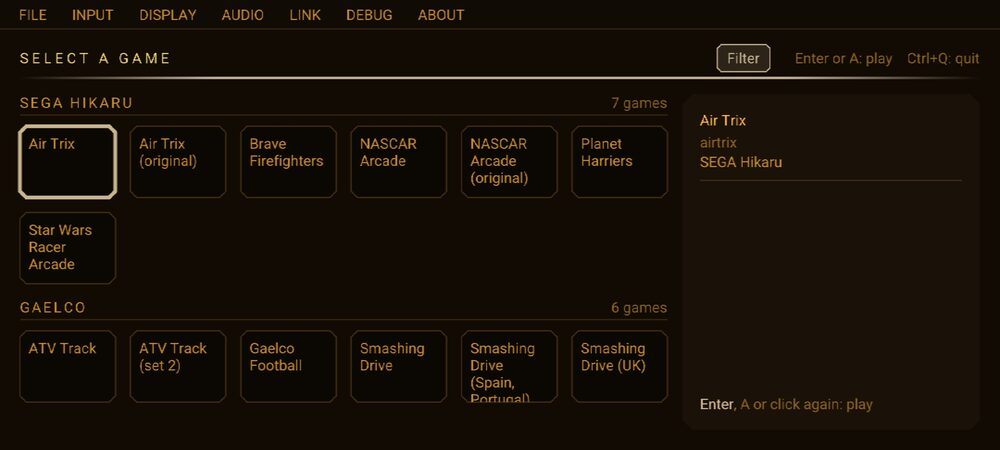
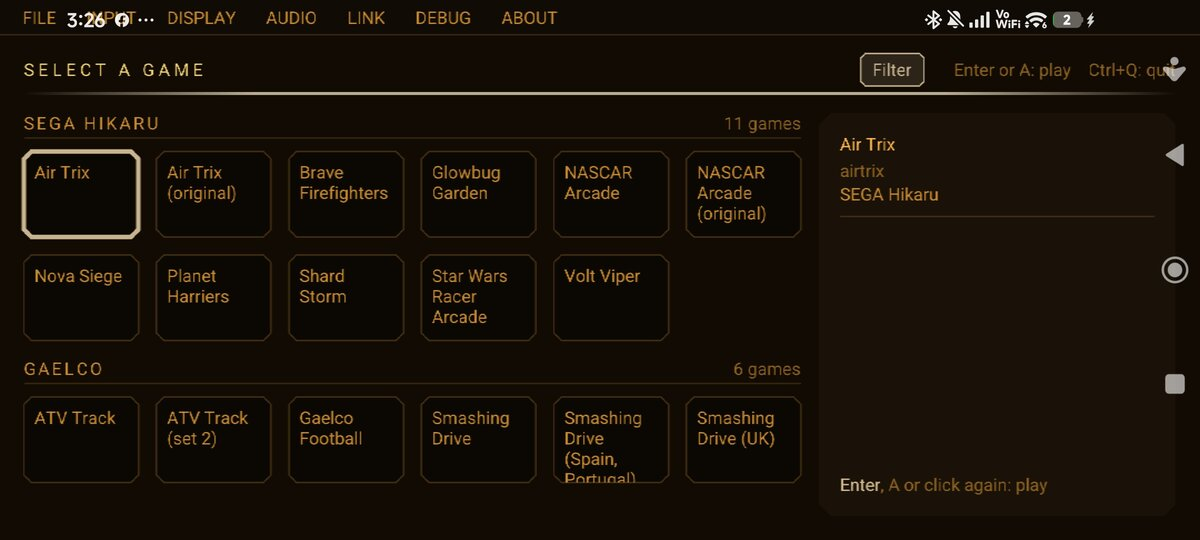
README: the four homebrew games, the import tried on the phone (#43)
The state table says the import and its check were tried on the phone,
and that a homebrew game installs by its zip alone (GLOWBUG GARDEN). The
homebrew section lists the four games in a table, with GLOWBUG GARDEN on
the phone; the list of the games is the phone's with the four of them.

Claude-Session: https://claude.ai/code/session_01Y1Xuj68g9nEy1QUJYZxdtJ

diff --git a/README.md b/README.md
@@ -17,7 +17,7 @@ https://github.com/Laurent-67370/odin-android/releases/download/odin-apk/odin.ap
   <img src="docs/games-list.jpg" alt="La liste des jeux d'Odin sur le téléphone" width="520">
 </p>
 
-<p align="center"><em>Star Wars Racer Arcade en course (60 images/s) ; Air Trix en portrait ; la liste des jeux.
+<p align="center"><em>Star Wars Racer Arcade en course (60 images/s) ; Air Trix en portrait ; la liste des jeux, avec les quatre jeux maison.
 Captures d'un Snapdragon 8 Gen 2.</em></p>
 
 ## État
@@ -35,11 +35,12 @@ Captures d'un Snapdragon 8 Gen 2.</em></p>
 | Quitter puis revenir dans l'app | le jeu reprend (pas d'écran noir) |
 | Records et réglages des bornes | gardés, aussi quand Android ferme l'app en arrière-plan |
 | Mises à jour | par-dessus l'ancienne version (APK signé d'une clé fixe) |
-| Ajouter des jeux | MENU → File → Add games… : le sélecteur du téléphone, chaque archive copiée dans `Odin/roms` sous le bon nom (reconnue à son contenu) |
-| **NOVA SIEGE** (homebrew du dépôt) | jeu de tir original pour la Hikaru : son, musique, record gardé, vagues variées, vaisseau-mère ; [odinhb.zip](https://github.com/Laurent-67370/odin-android/releases/download/odin-apk/odinhb.zip) dans `Odin/roms` |
-| **SHARD STORM** (homebrew du dépôt) | casse-briques original : 12 niveaux, capsules, musique, record gardé ; [odinshrd.zip](https://github.com/Laurent-67370/odin-android/releases/download/odin-apk/odinshrd.zip) dans `Odin/roms` |
-| **GLOWBUG GARDEN** (homebrew du dépôt) | poursuite dans un labyrinthe, originale : une luciole, trois scarabées d'ombre, quatre jardins, musique, record gardé ; [odinglow.zip](https://github.com/Laurent-67370/odin-android/releases/download/odin-apk/odinglow.zip), à importer seul (sans nouvel APK) |
-| **VOLT VIPER** (homebrew du dépôt) | serpent original : 8 niveaux de murs, étincelles, musique, record gardé ; [odinvipr.zip](https://github.com/Laurent-67370/odin-android/releases/download/odin-apk/odinvipr.zip) dans `Odin/roms` |
+| Ajouter des jeux | MENU → File → Add games… : le sélecteur du téléphone, plusieurs fichiers à la fois ; chaque archive copiée dans `Odin/roms` sous le bon nom (reconnue à son contenu), puis vérifiée : « ready to play », BIOS manquant, ancienne version. Essayé sur le téléphone |
+| Jeux maison sans nouvel APK | leur zip porte leur description : l'import seul les ajoute à la liste (essayé sur le téléphone avec GLOWBUG GARDEN) |
+| **NOVA SIEGE** (homebrew du dépôt) | jeu de tir original : son, musique, record gardé, vagues variées, vaisseau-mère ; [odinhb.zip](https://github.com/Laurent-67370/odin-android/releases/download/odin-apk/odinhb.zip) |
+| **SHARD STORM** (homebrew du dépôt) | casse-briques original : 12 niveaux, capsules, raquette au doigt, musique, record gardé ; [odinshrd.zip](https://github.com/Laurent-67370/odin-android/releases/download/odin-apk/odinshrd.zip) |
+| **VOLT VIPER** (homebrew du dépôt) | serpent original : 8 niveaux de murs, étincelles, musique, record gardé ; [odinvipr.zip](https://github.com/Laurent-67370/odin-android/releases/download/odin-apk/odinvipr.zip) |
+| **GLOWBUG GARDEN** (homebrew du dépôt) | poursuite dans un labyrinthe, originale : une luciole, trois scarabées d'ombre, quatre jardins, musique, record gardé ; [odinglow.zip](https://github.com/Laurent-67370/odin-android/releases/download/odin-apk/odinglow.zip) |
 
 Connu, venant d'Odin lui-même : Air Trix peut planter à l'écran des meilleurs
 scores ([Tovarichtch/Odin#52](https://github.com/Tovarichtch/Odin/issues/52)).
@@ -227,34 +228,35 @@ par seconde** en course : la carte graphique travaille environ 9 ms sur les
 Le dossier [`homebrew/`](homebrew/) contient quatre jeux faits maison pour la
 borne SEGA Hikaru : ils démarrent par le BIOS SEGA comme de vrais jeux,
 affichent par la couche 2D, lisent les commandes par le JVS et jouent leur son
-sur l'AICA. **SHARD STORM** est un casse-briques original : douze niveaux de
-cristal, briques d'argent, d'or et bombes, six capsules (raquette large,
-multi-balles, laser, ralenti, colle, vie), musique et record gardé ;
-[odinshrd.zip](https://github.com/Laurent-67370/odin-android/releases/download/odin-apk/odinshrd.zip)
-dans `Odin/roms`.
+sur l'AICA. Tous originaux, avec leur musique composée et leur record gardé.
+
+| Jeu | Genre | Fichier |
+|---|---|---|
+| **NOVA SIEGE** | tir à écran fixe : formation d'aliens, boucliers, blindés, vaisseau-mère | [odinhb.zip](https://github.com/Laurent-67370/odin-android/releases/download/odin-apk/odinhb.zip) |
+| **SHARD STORM** | casse-briques : 12 niveaux de cristal, argent, or, bombes, 6 capsules ; la raquette suit le doigt | [odinshrd.zip](https://github.com/Laurent-67370/odin-android/releases/download/odin-apk/odinshrd.zip) |
+| **VOLT VIPER** | serpent : cellules d'énergie, étincelles, 8 niveaux de murs | [odinvipr.zip](https://github.com/Laurent-67370/odin-android/releases/download/odin-apk/odinvipr.zip) |
+| **GLOWBUG GARDEN** | poursuite dans un labyrinthe : une luciole, trois scarabées d'ombre, la fleur-lanterne, 4 jardins | [odinglow.zip](https://github.com/Laurent-67370/odin-android/releases/download/odin-apk/odinglow.zip) |
+
+Pour y jouer sur le téléphone : télécharger le zip, puis **MENU → File → Add
+games…** dans Odin (il demande aussi `hikaru.zip` et `mie.zip`, le BIOS). Le
+zip porte la description du jeu : un nouveau jeu maison, ou une nouvelle
+version, s'installe sans nouvel APK. Les commandes répondent une dizaine de
+secondes après le lancement (l'écran l'indique). Le détail de chaque jeu, et
+comment ils sont faits : [`homebrew/README.md`](homebrew/README.md).
+
+<p align="center">
+  <img src="docs/glowbug-phone.jpg" alt="GLOWBUG GARDEN sur le téléphone, importé sans nouvel APK, avec la manette tactile" width="640">
+</p>
 
 <p align="center">
   <img src="homebrew/docs/shard.png" alt="SHARD STORM : l'écran titre et le premier niveau" width="640">
-</p>
-
-Le premier jeu, **NOVA SIEGE**, est un jeu de
-tir à écran fixe original : une formation d'aliens qui marche et accélère, des
-boucliers destructibles, un pillard bonus, des vagues qui changent de forme,
-des blindés, des plongeurs, un vaisseau-mère toutes les 5 vagues, du son, de
-la musique et un record gardé.
-
-Pour y jouer sur le téléphone : télécharger
-[odinhb.zip](https://github.com/Laurent-67370/odin-android/releases/download/odin-apk/odinhb.zip)
-(publié avec l'APK, construit à chaque version) et le mettre dans
-`Odin/roms`, à côté de `hikaru.zip` et `mie.zip`. Le jeu s'appelle **Nova
-Siege** dans la liste. Les commandes répondent une dizaine de secondes après
-le lancement (l'écran l'indique).
-
-<p align="center">
-  <img src="homebrew/docs/demo.png" alt="NOVA SIEGE : l'écran titre et une partie" width="640">
   <br>
-  <img src="homebrew/docs/waves.png" alt="NOVA SIEGE : la vague des pinces avec ses blindés, et le vaisseau-mère" width="640">
+  <img src="homebrew/docs/viper.png" alt="VOLT VIPER : l'écran titre et une partie" width="640">
+  <br>
+  <img src="homebrew/docs/demo.png" alt="NOVA SIEGE : l'écran titre et une partie" width="640">
 </p>
+
+<p align="center"><em>GLOWBUG GARDEN sur le téléphone ; SHARD STORM, VOLT VIPER et NOVA SIEGE dans Odin.</em></p>
 
 ## Construire soi-même
 
